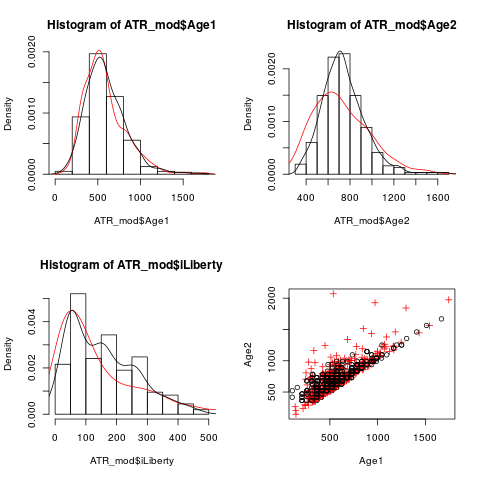
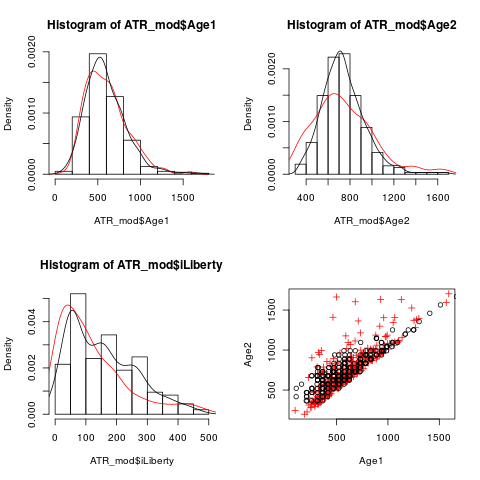
I think I found the bug, will test/run tomo

diff --git a/inst/executables/ATR.cpp b/inst/executables/ATR.cpp
@@ -15,22 +15,22 @@ Type objective_function<Type>::operator() ()
   DATA_FACTOR(Sex);      // Sex of individual
   DATA_FACTOR(Time0);    // Time at which individual was born (time 0, with units days, weeks, months, or years)
   DATA_FACTOR(Time1);    // Time at which individual was caught/tagged (time 1, with units days, weeks, months, or years)
-  DATA_FACTOR(Time2);    // Time at which individual was recaptured (time 2, with units days, weeks, months, or years)
+  //DATA_FACTOR(Time2);    // Time at which individual was recaptured (time 2, with units days, weeks, months, or years)
   DATA_FACTOR(Year0);    // Year in which individual was born (time 0)
   DATA_FACTOR(Year1);    // Year in which individual was caught/tagged (time 1)
-  DATA_FACTOR(Year2);    // Year in which individual was recaptured (time 2)
+  //DATA_FACTOR(Year2);    // Year in which individual was recaptured (time 2)
   DATA_FACTOR(Area1);    // Area that individual was in at time 1 
 
   // Parameters
-  PARAMETER_VECTOR(ln_gamma);   // Fixed effect vector (1)
+  PARAMETER_VECTOR(ln_gamma);   // Fixed effect vector (2)
   PARAMETER(logit_psi);         // Fixed effect (1)
   PARAMETER_VECTOR(L0);         // Fixed effect vector (2, sex-specific)
   PARAMETER_VECTOR(ln_bmean);   // Random effects vector (2, sex-specific)
   PARAMETER_VECTOR(ln_bdev);    // Random effects vector (315, individual)
   PARAMETER_VECTOR(ln_sd_bdev); // Random effect standard deviation (2, sex-specific)
   PARAMETER(ln_sd_obs);         // Measurement standard deviation (1)
-  PARAMETER_VECTOR(z1);         // Random effects vector (315, individual)
-  PARAMETER_VECTOR(z2);         // Random effects vector (315, individual)
+  PARAMETER_VECTOR(z1);         // Random effects vector (N, individual)
+  PARAMETER_VECTOR(z2);         // Random effects vector (N, individual)
   PARAMETER(ln_sd_z);           // Random effects standard deviation (1)
   PARAMETER_VECTOR(ln_ydev);    // Random effects vector (40, year)
   PARAMETER(ln_sd_ydev);        // Random effects standard deviation (1)
@@ -108,10 +108,10 @@ Type objective_function<Type>::operator() ()
   int area;
   Type sd_xdev = exp(ln_sd_xdev);
   // Random effect probability of each area
-  if (Options(1) == 1)
-  {
-    for (int a = 0; a < Narea; a++) { ans -= dnorm( ln_xdev(a), Type(0.), sd_xdev, true ); }
-  }
+  //if (Options(1) == 1)
+  //{
+  //  for (int a = 0; a < Narea; a++) { ans -= dnorm( ln_xdev(a), Type(0.), sd_xdev, true ); }
+  //}
   
   // Loop over each individual in the data set
   for (int i = 0; i < Nindiv; i++)
@@ -134,7 +134,9 @@ Type objective_function<Type>::operator() ()
       // required because if a time-step other than annual is used then we need
       // to be referencing the correct year-effect parameter.
       time = Time0(i) + j;
-      if ( fmod (time, time_step) == 0. ) { year += 1; }
+      // THE ERROR IS IN HERE
+      //if ( fmod (time, time_step) == 0. ) { year += 1; }
+      // THE ERROR IS IN HERE
       sumj += gamma(sex) * exp(-b_indiv(i) * j) * exp(ln_ydev(year)) * exp(ln_xdev(area));
       isYearUsedTF( year ) = 1;
     }
@@ -151,7 +153,7 @@ Type objective_function<Type>::operator() ()
     ans -= dnorm( Length1(i), Length1_hat(i), sd_obs * Length1_hat(i), true );
     // Probability of second length measurement
     year = Year1(i); // The (index) year that the individual was first captured
-    sumj = Type(0.);
+    sumj = Type(0.0);
     for (int j = 0; j < (iLiberty(i)-1); j++)
     {
       time = Time1(i) + j;
@@ -167,11 +169,11 @@ Type objective_function<Type>::operator() ()
     sd_z2(i) = sd_z * (pow(b_indiv(i), psi-1) * (1-exp(-b_indiv(i)))) * pow(sumj,0.5);
     if (Options(3) == 1)
     {
-      ans -= dnorm( z2(i), Type(0.), sd_z2(i), true );
+      ans -= dnorm( z2(i), Type(0.0), sd_z2(i), true );
     }
     ans -= dnorm( Length2(i), Length2_hat(i), sd_obs * Length2_hat(i), true );
   }
-  
+
   // REPORT DIAGNOSTICS
   REPORT( b_indiv );
   REPORT( a_indiv );  
@@ -186,8 +188,8 @@ Type objective_function<Type>::operator() ()
   ADREPORT( sd_bdev );
   ADREPORT( sd_obs );
   ADREPORT( sd_z );
-  ADREPORT( sd_ydev );
-  ADREPORT( sd_xdev );
+  //ADREPORT( sd_ydev );
+  //ADREPORT( sd_xdev );
   ADREPORT( Length1_hat );
   ADREPORT( Length2_hat );
   ADREPORT( a_indiv );
@@ -195,8 +197,8 @@ Type objective_function<Type>::operator() ()
   ADREPORT( ln_bdev );
   ADREPORT( sd_z1 );
   ADREPORT( sd_z2 );
-  ADREPORT( ln_ydev );
-  ADREPORT( ln_xdev );
+  //ADREPORT( ln_ydev );
+  //ADREPORT( ln_xdev );
 
   return ans;
 }

diff --git a/examples/simulation_study/README.md b/examples/simulation_study/README.md
@@ -1,5 +1,15 @@
 # Simulation
 
+could only do the power analysis for one data-generating scenario (i.e.,
+variation in K and z) and all estimation models, with 4 x 4 x 200 runs.  I
+think its reasonable to do another 4 x 4 x 200 runs, with 4 estimation
+models, 4 simulation scenarios, and 200 replicates each, with sample size
+fixed at what we saw in the data.  Breaking up factorials is a standard
+trick, e.g., here:
+http://www.nrcresearchpress.com/doi/abs/10.1139/cjfas-2012-0330.  Anyway,
+this would double simulation design size, but wouldn't require rerunning
+the power analysis.
+
 Simulation of data sets is done using the script `Simulate_Growth.R`. `Simulate_Growth.R` calls
 `Growth_Model.R` to run the simulations. All simulations are saved as `.RData`
 files.
